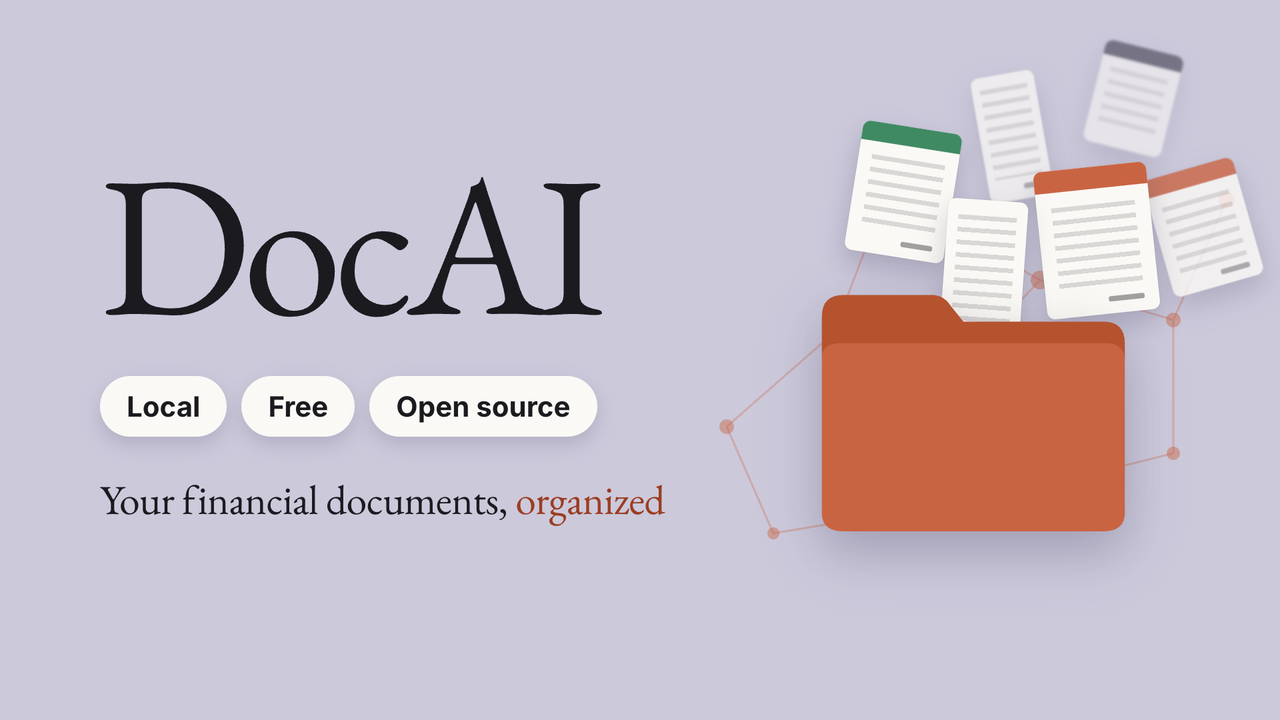
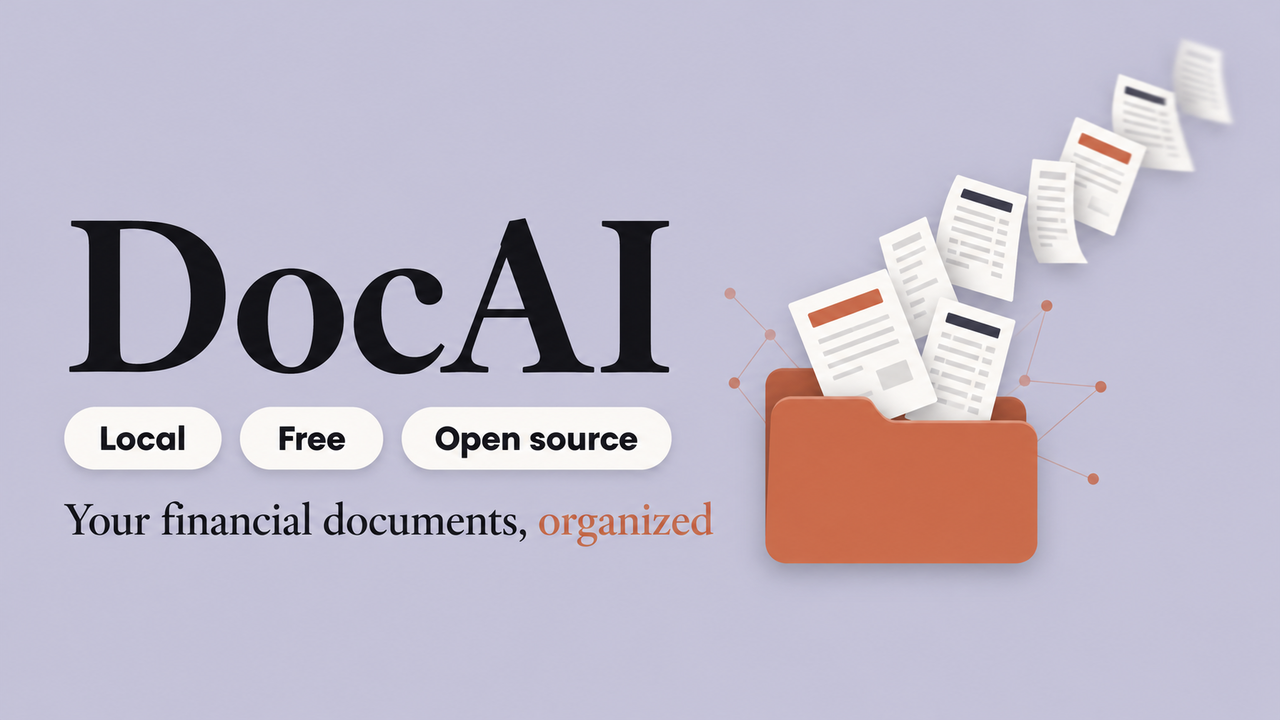
1

diff --git a/video/index.html b/video/index.html
@@ -58,7 +58,7 @@
     </style>
     <script>
       // Narration timing, in each scene's own time (seconds from the scene's start).
-      window.VO = {"total":266.688,"cover":2.4,"scenes":{"intro":{"id":"intro","start":2.4,"duration":23.065,"lead":0.6,"audio":"assets/voice/intro.mp3","voice":21.865,"sentences":[{"text":"This is DocAI.","start":0.6,"end":1.924},{"text":"Think of it as a free, local, open-source Google Drive, built for your financial documents.","start":2.274,"end":8.001},{"text":"Invoices, receipts, bank statements and transactions.","start":8.351,"end":12.055},{"text":"It runs on your own computer, and keeps your files private.","start":12.405,"end":15.258},{"text":"AI extracts the data from every document, organizes it in one database, and connects it into a complete picture of your money flow.","start":15.608,"end":22.115}]},"why":{"id":"why","start":25.465,"duration":32.453,"lead":0.6,"audio":"assets/voice/why.mp3","voice":31.253,"sentences":[{"text":"Why DocAI?","start":0.6,"end":1.991},{"text":"The data about your money is all there.","start":2.341,"end":4.267},{"text":"But every document comes in a different format, from a different source, at a different time of the month.","start":4.617,"end":9.493},{"text":"Organizing it in Excel is a full-time job, so most of us just give up.","start":9.843,"end":13.523},{"text":"Then one day you need answers, and you waste days digging through emails and accounts.","start":13.873,"end":18.17},{"text":"How did I miss a tax payment?","start":18.52,"end":20.086},{"text":"Did I get paid for this job?","start":20.436,"end":21.784},{"text":"What is this expense I don't remember making?","start":22.134,"end":24.192},{"text":"You need one place to drop all your documents, let AI do the first pass, and manage it with simple tools.","start":24.542,"end":29.859},{"text":"That's DocAI.","start":30.209,"end":31.503}]},"how":{"id":"how","start":57.918,"duration":26.956,"lead":0.6,"audio":"assets/voice/how.mp3","voice":25.756,"sentences":[{"text":"Here's how it works.","start":0.6,"end":1.623},{"text":"First, connect a folder.","start":1.973,"end":3.662},{"text":"Any folder works, even a Google Drive folder synced to your computer.","start":4.012,"end":7.974},{"text":"Second, the data is extracted automatically.","start":8.324,"end":11.134},{"text":"Every document is recognized, and its vendor, dates, totals and line items land in a structured schema.","start":11.484,"end":17.488},{"text":"Third, work with your data.","start":17.838,"end":19.752},{"text":"Browse and search in a Drive-like interface, and match payments to invoices with the built-in reconciliation tool.","start":20.102,"end":26.006}]},"use":{"id":"use","start":84.874,"duration":17.929,"lead":0.6,"audio":"assets/voice/use.mp3","voice":16.729,"sentences":[{"text":"Here's how I use it every day.","start":0.6,"end":2.004},{"text":"Whenever I get a receipt, I snap a photo and save it to Google Drive.","start":2.354,"end":5.882},{"text":"Once it syncs, DocAI picks it up and extracts the data.","start":6.232,"end":9.767},{"text":"Then I connect Claude Code, and use it to organize my documents, create reports, and link my income to my tax payments.","start":10.117,"end":16.979}]},"mcp":{"id":"mcp","start":102.803,"duration":19.242,"lead":0.6,"audio":"assets/voice/mcp.mp3","voice":18.042,"sentences":[{"text":"DocAI is also an MCP server.","start":0.6,"end":3.347},{"text":"So you can connect Claude, or any AI assistant, and simply ask.","start":3.697,"end":7.911},{"text":"Sort my documents.","start":8.261,"end":9.443},{"text":"Arrange them in folders.","start":9.793,"end":11.131},{"text":"How much did I spend on software in March?","start":11.481,"end":13.633},{"text":"Reconcile these payments with their invoices.","start":13.983,"end":16.4},{"text":"Or build me a mini app.","start":16.751,"end":18.292}]},"miniapps":{"id":"miniapps","start":122.045,"duration":25.476,"lead":0.6,"audio":"assets/voice/miniapps.mp3","voice":24.276,"sentences":[{"text":"Mini apps are custom tools built on top of your data.","start":0.6,"end":3.57},{"text":"A monthly expense report, a folder organizer, a bank reconciliation.","start":3.92,"end":8.198},{"text":"The AI builds the app once.","start":8.548,"end":10.661},{"text":"After that, it runs on its own, without calling an AI model.","start":11.011,"end":14.856},{"text":"That makes it faster, deterministic, cheaper, and private.","start":15.206,"end":18.453},{"text":"You can even build a mini app on a few sample documents, then run it on your real ones completely offline.","start":18.803,"end":24.526}]},"setup":{"id":"setup","start":147.521,"duration":42.62,"lead":0.6,"audio":"assets/voice/setup.mp3","voice":41.42,"sentences":[{"text":"Setting up DocAI takes a minute.","start":0.6,"end":2.547},{"text":"Install it with two commands, and open it in your browser.","start":2.897,"end":6.234},{"text":"First, choose the folder with your documents.","start":6.584,"end":9.098},{"text":"A Google Drive folder synced to your computer works too.","start":9.448,"end":12.236},{"text":"Then choose where the AI runs.","start":12.586,"end":14.313},{"text":"On your own computer, nothing leaves your machine, but it's slower and needs a strong computer.","start":14.663,"end":19.808},{"text":"With an AI provider you trust, it's fast and accurate, using your own key.","start":20.158,"end":24.616},{"text":"For a local model, DocAI downloads one and runs it for you, or uses Ollama if you already have it.","start":24.966,"end":30.677},{"text":"For a provider, paste your key, and DocAI checks it and loads its models.","start":31.027,"end":35.565},{"text":"A quick test makes sure it all works, and you're done.","start":35.915,"end":39.306},{"text":"You can switch any time in Settings.","start":39.656,"end":41.67}]},"firstdoc":{"id":"firstdoc","start":190.141,"duration":17.101,"lead":0.6,"audio":"assets/voice/firstdoc.mp3","voice":15.901,"sentences":[{"text":"Now add your first document.","start":0.6,"end":2.075},{"text":"Upload it, or just drop it in your folder.","start":2.425,"end":4.734},{"text":"It shows up right away, and in a few seconds the AI has read it.","start":5.084,"end":8.658},{"text":"Open it to see everything DocAI extracted, next to the original.","start":9.008,"end":12.852},{"text":"Every line item is there too, and you can correct anything.","start":13.202,"end":16.151}]},"examples":{"id":"examples","start":207.242,"duration":49.634,"lead":0.6,"audio":"assets/voice/examples.mp3","voice":48.434,"sentences":[{"text":"Here are three mini apps I use every day.","start":0.6,"end":3.667},{"text":"Monthly Expenses shows where my money went this month.","start":5.617,"end":8.19},{"text":"Every receipt and payment is grouped by category, and checked against the bank.","start":8.54,"end":12.301},{"text":"Click a category to see each expense, with the bank transaction it matched.","start":12.651,"end":16.758},{"text":"Folder Suggestions files new documents for me.","start":18.708,"end":21.273},{"text":"It looks at where similar documents already live, and suggests a folder for each one.","start":21.623,"end":25.858},{"text":"One click moves them all, and the files move on disk too.","start":26.208,"end":29.384},{"text":"Bank Reconciliation shows which transactions are explained by a document.","start":31.334,"end":35.374},{"text":"When it finds a likely match, it asks me to confirm.","start":35.724,"end":38.698},{"text":"Click Reconcile, and the transaction is linked to its document.","start":39.048,"end":42.523},{"text":"Each of these was built by asking Claude.","start":42.873,"end":44.954},{"text":"Describe the report you need, and Claude builds it on your data.","start":45.304,"end":48.684}]},"outro":{"id":"outro","start":256.876,"duration":9.812,"lead":0.6,"audio":"assets/voice/outro.mp3","voice":6.812,"sentences":[{"text":"DocAI.","start":0.6,"end":1.537},{"text":"Free, open source, and private.","start":1.887,"end":4.611},{"text":"Organize your finances the way you want.","start":4.961,"end":7.062}]}}};
+      window.VO = {"total":265.288,"cover":1,"scenes":{"intro":{"id":"intro","start":1,"duration":23.065,"lead":0.6,"audio":"assets/voice/intro.mp3","voice":21.865,"sentences":[{"text":"This is DocAI.","start":0.6,"end":1.924},{"text":"Think of it as a free, local, open-source Google Drive, built for your financial documents.","start":2.274,"end":8.001},{"text":"Invoices, receipts, bank statements and transactions.","start":8.351,"end":12.055},{"text":"It runs on your own computer, and keeps your files private.","start":12.405,"end":15.258},{"text":"AI extracts the data from every document, organizes it in one database, and connects it into a complete picture of your money flow.","start":15.608,"end":22.115}]},"why":{"id":"why","start":24.065,"duration":32.453,"lead":0.6,"audio":"assets/voice/why.mp3","voice":31.253,"sentences":[{"text":"Why DocAI?","start":0.6,"end":1.991},{"text":"The data about your money is all there.","start":2.341,"end":4.267},{"text":"But every document comes in a different format, from a different source, at a different time of the month.","start":4.617,"end":9.493},{"text":"Organizing it in Excel is a full-time job, so most of us just give up.","start":9.843,"end":13.523},{"text":"Then one day you need answers, and you waste days digging through emails and accounts.","start":13.873,"end":18.17},{"text":"How did I miss a tax payment?","start":18.52,"end":20.086},{"text":"Did I get paid for this job?","start":20.436,"end":21.784},{"text":"What is this expense I don't remember making?","start":22.134,"end":24.192},{"text":"You need one place to drop all your documents, let AI do the first pass, and manage it with simple tools.","start":24.542,"end":29.859},{"text":"That's DocAI.","start":30.209,"end":31.503}]},"how":{"id":"how","start":56.518,"duration":26.956,"lead":0.6,"audio":"assets/voice/how.mp3","voice":25.756,"sentences":[{"text":"Here's how it works.","start":0.6,"end":1.623},{"text":"First, connect a folder.","start":1.973,"end":3.662},{"text":"Any folder works, even a Google Drive folder synced to your computer.","start":4.012,"end":7.974},{"text":"Second, the data is extracted automatically.","start":8.324,"end":11.134},{"text":"Every document is recognized, and its vendor, dates, totals and line items land in a structured schema.","start":11.484,"end":17.488},{"text":"Third, work with your data.","start":17.838,"end":19.752},{"text":"Browse and search in a Drive-like interface, and match payments to invoices with the built-in reconciliation tool.","start":20.102,"end":26.006}]},"use":{"id":"use","start":83.474,"duration":17.929,"lead":0.6,"audio":"assets/voice/use.mp3","voice":16.729,"sentences":[{"text":"Here's how I use it every day.","start":0.6,"end":2.004},{"text":"Whenever I get a receipt, I snap a photo and save it to Google Drive.","start":2.354,"end":5.882},{"text":"Once it syncs, DocAI picks it up and extracts the data.","start":6.232,"end":9.767},{"text":"Then I connect Claude Code, and use it to organize my documents, create reports, and link my income to my tax payments.","start":10.117,"end":16.979}]},"mcp":{"id":"mcp","start":101.403,"duration":19.242,"lead":0.6,"audio":"assets/voice/mcp.mp3","voice":18.042,"sentences":[{"text":"DocAI is also an MCP server.","start":0.6,"end":3.347},{"text":"So you can connect Claude, or any AI assistant, and simply ask.","start":3.697,"end":7.911},{"text":"Sort my documents.","start":8.261,"end":9.443},{"text":"Arrange them in folders.","start":9.793,"end":11.131},{"text":"How much did I spend on software in March?","start":11.481,"end":13.633},{"text":"Reconcile these payments with their invoices.","start":13.983,"end":16.4},{"text":"Or build me a mini app.","start":16.751,"end":18.292}]},"miniapps":{"id":"miniapps","start":120.645,"duration":25.476,"lead":0.6,"audio":"assets/voice/miniapps.mp3","voice":24.276,"sentences":[{"text":"Mini apps are custom tools built on top of your data.","start":0.6,"end":3.57},{"text":"A monthly expense report, a folder organizer, a bank reconciliation.","start":3.92,"end":8.198},{"text":"The AI builds the app once.","start":8.548,"end":10.661},{"text":"After that, it runs on its own, without calling an AI model.","start":11.011,"end":14.856},{"text":"That makes it faster, deterministic, cheaper, and private.","start":15.206,"end":18.453},{"text":"You can even build a mini app on a few sample documents, then run it on your real ones completely offline.","start":18.803,"end":24.526}]},"setup":{"id":"setup","start":146.121,"duration":42.62,"lead":0.6,"audio":"assets/voice/setup.mp3","voice":41.42,"sentences":[{"text":"Setting up DocAI takes a minute.","start":0.6,"end":2.547},{"text":"Install it with two commands, and open it in your browser.","start":2.897,"end":6.234},{"text":"First, choose the folder with your documents.","start":6.584,"end":9.098},{"text":"A Google Drive folder synced to your computer works too.","start":9.448,"end":12.236},{"text":"Then choose where the AI runs.","start":12.586,"end":14.313},{"text":"On your own computer, nothing leaves your machine, but it's slower and needs a strong computer.","start":14.663,"end":19.808},{"text":"With an AI provider you trust, it's fast and accurate, using your own key.","start":20.158,"end":24.616},{"text":"For a local model, DocAI downloads one and runs it for you, or uses Ollama if you already have it.","start":24.966,"end":30.677},{"text":"For a provider, paste your key, and DocAI checks it and loads its models.","start":31.027,"end":35.565},{"text":"A quick test makes sure it all works, and you're done.","start":35.915,"end":39.306},{"text":"You can switch any time in Settings.","start":39.656,"end":41.67}]},"firstdoc":{"id":"firstdoc","start":188.741,"duration":17.101,"lead":0.6,"audio":"assets/voice/firstdoc.mp3","voice":15.901,"sentences":[{"text":"Now add your first document.","start":0.6,"end":2.075},{"text":"Upload it, or just drop it in your folder.","start":2.425,"end":4.734},{"text":"It shows up right away, and in a few seconds the AI has read it.","start":5.084,"end":8.658},{"text":"Open it to see everything DocAI extracted, next to the original.","start":9.008,"end":12.852},{"text":"Every line item is there too, and you can correct anything.","start":13.202,"end":16.151}]},"examples":{"id":"examples","start":205.842,"duration":49.634,"lead":0.6,"audio":"assets/voice/examples.mp3","voice":48.434,"sentences":[{"text":"Here are three mini apps I use every day.","start":0.6,"end":3.667},{"text":"Monthly Expenses shows where my money went this month.","start":5.617,"end":8.19},{"text":"Every receipt and payment is grouped by category, and checked against the bank.","start":8.54,"end":12.301},{"text":"Click a category to see each expense, with the bank transaction it matched.","start":12.651,"end":16.758},{"text":"Folder Suggestions files new documents for me.","start":18.708,"end":21.273},{"text":"It looks at where similar documents already live, and suggests a folder for each one.","start":21.623,"end":25.858},{"text":"One click moves them all, and the files move on disk too.","start":26.208,"end":29.384},{"text":"Bank Reconciliation shows which transactions are explained by a document.","start":31.334,"end":35.374},{"text":"When it finds a likely match, it asks me to confirm.","start":35.724,"end":38.698},{"text":"Click Reconcile, and the transaction is linked to its document.","start":39.048,"end":42.523},{"text":"Each of these was built by asking Claude.","start":42.873,"end":44.954},{"text":"Describe the report you need, and Claude builds it on your data.","start":45.304,"end":48.684}]},"outro":{"id":"outro","start":255.476,"duration":9.812,"lead":0.6,"audio":"assets/voice/outro.mp3","voice":6.812,"sentences":[{"text":"DocAI.","start":0.6,"end":1.537},{"text":"Free, open source, and private.","start":1.887,"end":4.611},{"text":"Organize your finances the way you want.","start":4.961,"end":7.062}]}}};
 
       // Helpers the scenes share. Everything here runs before the scenes build
       // their timelines, and is a pure function of the timing above.
@@ -171,54 +171,54 @@
     </script>
   </head>
   <body>
-    <div id="root" data-composition-id="main" data-start="0" data-duration="266.688"
+    <div id="root" data-composition-id="main" data-start="0" data-duration="265.288"
          data-width="1920" data-height="1080">
       <div id="world" data-composition-id="world" data-composition-src="compositions/world.html"
-           data-start="0" data-duration="266.688" data-track-index="1"
+           data-start="0" data-duration="265.288" data-track-index="1"
            data-width="1920" data-height="1080"></div>
       <div id="cover" data-composition-id="cover" data-composition-src="compositions/cover.html"
-           data-start="0" data-duration="2.4" data-track-index="2"
+           data-start="0" data-duration="1" data-track-index="2"
            data-width="1920" data-height="1080"></div>
       <div id="intro" data-composition-id="intro" data-composition-src="compositions/intro.html"
-           data-start="2.4" data-duration="23.065" data-track-index="2"
+           data-start="1" data-duration="23.065" data-track-index="2"
            data-width="1920" data-height="1080"></div>
       <div id="why" data-composition-id="why" data-composition-src="compositions/why.html"
-           data-start="25.465" data-duration="32.453" data-track-index="3"
+           data-start="24.065" data-duration="32.453" data-track-index="3"
            data-width="1920" data-height="1080"></div>
       <div id="how" data-composition-id="how" data-composition-src="compositions/how.html"
-           data-start="57.918" data-duration="26.956" data-track-index="4"
+           data-start="56.518" data-duration="26.956" data-track-index="4"
            data-width="1920" data-height="1080"></div>
       <div id="use" data-composition-id="use" data-composition-src="compositions/use.html"
-           data-start="84.874" data-duration="17.929" data-track-index="5"
+           data-start="83.474" data-duration="17.929" data-track-index="5"
            data-width="1920" data-height="1080"></div>
       <div id="mcp" data-composition-id="mcp" data-composition-src="compositions/mcp.html"
-           data-start="102.803" data-duration="19.242" data-track-index="6"
+           data-start="101.403" data-duration="19.242" data-track-index="6"
            data-width="1920" data-height="1080"></div>
       <div id="miniapps" data-composition-id="miniapps" data-composition-src="compositions/miniapps.html"
-           data-start="122.045" data-duration="25.476" data-track-index="7"
+           data-start="120.645" data-duration="25.476" data-track-index="7"
            data-width="1920" data-height="1080"></div>
       <div id="setup" data-composition-id="setup" data-composition-src="compositions/setup.html"
-           data-start="147.521" data-duration="42.62" data-track-index="8"
+           data-start="146.121" data-duration="42.62" data-track-index="8"
            data-width="1920" data-height="1080"></div>
       <div id="firstdoc" data-composition-id="firstdoc" data-composition-src="compositions/firstdoc.html"
-           data-start="190.141" data-duration="17.101" data-track-index="9"
+           data-start="188.741" data-duration="17.101" data-track-index="9"
            data-width="1920" data-height="1080"></div>
       <div id="examples" data-composition-id="examples" data-composition-src="compositions/examples.html"
-           data-start="207.242" data-duration="49.634" data-track-index="10"
+           data-start="205.842" data-duration="49.634" data-track-index="10"
            data-width="1920" data-height="1080"></div>
       <div id="outro" data-composition-id="outro" data-composition-src="compositions/outro.html"
-           data-start="256.876" data-duration="9.812" data-track-index="11"
+           data-start="255.476" data-duration="9.812" data-track-index="11"
            data-width="1920" data-height="1080"></div>
-      <audio id="vo-intro" src="assets/voice/intro.mp3" data-start="3.000" data-duration="21.865" data-volume="1" data-track-index="20"></audio>
-      <audio id="vo-why" src="assets/voice/why.mp3" data-start="26.065" data-duration="31.253" data-volume="1" data-track-index="21"></audio>
-      <audio id="vo-how" src="assets/voice/how.mp3" data-start="58.518" data-duration="25.756" data-volume="1" data-track-index="22"></audio>
-      <audio id="vo-use" src="assets/voice/use.mp3" data-start="85.474" data-duration="16.729" data-volume="1" data-track-index="23"></audio>
-      <audio id="vo-mcp" src="assets/voice/mcp.mp3" data-start="103.403" data-duration="18.042" data-volume="1" data-track-index="24"></audio>
-      <audio id="vo-miniapps" src="assets/voice/miniapps.mp3" data-start="122.645" data-duration="24.276" data-volume="1" data-track-index="25"></audio>
-      <audio id="vo-setup" src="assets/voice/setup.mp3" data-start="148.121" data-duration="41.42" data-volume="1" data-track-index="26"></audio>
-      <audio id="vo-firstdoc" src="assets/voice/firstdoc.mp3" data-start="190.741" data-duration="15.901" data-volume="1" data-track-index="27"></audio>
-      <audio id="vo-examples" src="assets/voice/examples.mp3" data-start="207.842" data-duration="48.434" data-volume="1" data-track-index="28"></audio>
-      <audio id="vo-outro" src="assets/voice/outro.mp3" data-start="257.476" data-duration="6.812" data-volume="1" data-track-index="29"></audio>
+      <audio id="vo-intro" src="assets/voice/intro.mp3" data-start="1.600" data-duration="21.865" data-volume="1" data-track-index="20"></audio>
+      <audio id="vo-why" src="assets/voice/why.mp3" data-start="24.665" data-duration="31.253" data-volume="1" data-track-index="21"></audio>
+      <audio id="vo-how" src="assets/voice/how.mp3" data-start="57.118" data-duration="25.756" data-volume="1" data-track-index="22"></audio>
+      <audio id="vo-use" src="assets/voice/use.mp3" data-start="84.074" data-duration="16.729" data-volume="1" data-track-index="23"></audio>
+      <audio id="vo-mcp" src="assets/voice/mcp.mp3" data-start="102.003" data-duration="18.042" data-volume="1" data-track-index="24"></audio>
+      <audio id="vo-miniapps" src="assets/voice/miniapps.mp3" data-start="121.245" data-duration="24.276" data-volume="1" data-track-index="25"></audio>
+      <audio id="vo-setup" src="assets/voice/setup.mp3" data-start="146.721" data-duration="41.42" data-volume="1" data-track-index="26"></audio>
+      <audio id="vo-firstdoc" src="assets/voice/firstdoc.mp3" data-start="189.341" data-duration="15.901" data-volume="1" data-track-index="27"></audio>
+      <audio id="vo-examples" src="assets/voice/examples.mp3" data-start="206.442" data-duration="48.434" data-volume="1" data-track-index="28"></audio>
+      <audio id="vo-outro" src="assets/voice/outro.mp3" data-start="256.076" data-duration="6.812" data-volume="1" data-track-index="29"></audio>
     </div>
     <script>
       window.__timelines = window.__timelines || {};

diff --git a/video/compositions/cover.html b/video/compositions/cover.html
@@ -1,7 +1,7 @@
 <template>
   <!--
-    The cover: the first frame of the video and the YouTube thumbnail
-    (scripts/thumbnail.mjs exports it at 1280 x 720). Visible from frame 0,
+    The cover: the first frame of the video (the YouTube thumbnail itself is
+    assets/images/thumbnail-chatgpt.png, see scripts/thumbnail.mjs). Visible from frame 0,
     held for the cover's length (COVER in scripts/build.mjs), then it blurs
     away into the intro. Text on the left, the picture on the right; the
     bottom-right corner stays empty for YouTube's time badge.
@@ -70,13 +70,13 @@
 
       // Frame 0 is the thumbnail: everything is already in place. While it
       // holds, only the documents drift on toward the folder.
-      tl.fromTo("#cv-docs", { x: 0, y: 0 }, { x: -30, y: 40, duration: end - 0.5, ease: "none" }, 0);
+      tl.fromTo("#cv-docs", { x: 0, y: 0 }, { x: -20, y: 26, duration: end - 0.28, ease: "none" }, 0);
       // Then it gives way to the intro
-      window.DOC.blurOut(tl, $("#cv-text"), end - 0.5, { blur: 14, duration: 0.35, y: -30 });
-      window.DOC.blurOut(tl, $("#cv-docs"), end - 0.45, { blur: 14, duration: 0.35 });
-      window.DOC.blurOut(tl, $("#cv-folder"), end - 0.45, { blur: 14, duration: 0.35, scale: 0.9 });
-      window.DOC.blurOut(tl, $("#cv-graph"), end - 0.45, { blur: 14, duration: 0.35 });
-      tl.to("#cover-root", { backgroundColor: "rgba(204, 201, 219, 0)", duration: 0.3 }, end - 0.35);
+      window.DOC.blurOut(tl, $("#cv-text"), end - 0.3, { blur: 14, duration: 0.24, y: -30 });
+      window.DOC.blurOut(tl, $("#cv-docs"), end - 0.28, { blur: 14, duration: 0.24 });
+      window.DOC.blurOut(tl, $("#cv-folder"), end - 0.28, { blur: 14, duration: 0.24, scale: 0.9 });
+      window.DOC.blurOut(tl, $("#cv-graph"), end - 0.28, { blur: 14, duration: 0.24 });
+      tl.to("#cover-root", { backgroundColor: "rgba(204, 201, 219, 0)", duration: 0.2 }, end - 0.22);
 
       window.__timelines = window.__timelines || {};
       window.__timelines[id] = tl;

diff --git a/video/compositions/world.html b/video/compositions/world.html
@@ -15,7 +15,7 @@
       #world-root { position: absolute; inset: 0; }
       #world-canvas { position: absolute; inset: 0; width: 1920px; height: 1080px; filter: blur(1.4px); }
     </style>
-    <canvas data-hf-id="hf-joyu" id="world-canvas" class="clip" data-start="0" data-duration="266.688" data-track-index="1"></canvas>
+    <canvas data-hf-id="hf-joyu" id="world-canvas" class="clip" data-start="0" data-duration="265.288" data-track-index="1"></canvas>
   </div>
   <script>
     (function () {

diff --git a/video/README.md b/video/README.md
@@ -8,7 +8,7 @@ A narrated walkthrough of the main README, made with [HyperFrames](https://hyper
 2. **Voice:** `python3 scripts/tts.py` sends each sentence on its own to the local Pocket TTS server (`POCKET_TTS_URL`, default `http://127.0.0.1:8123/tts`), the same way pocket-speak does. It writes one MP3 per scene and `assets/voice/timing.json` with every sentence's start and end. Clips are cached in `.cache/tts/`, so editing one sentence re-synthesizes only that one.
 3. **Screenshots:** `node scripts/capture.mjs` takes 2880×1800 screenshots of a running DocAI with headless Chrome. Pages are only read, never changed. `DOCAI_URL` is the instance with real data; `SAMPLE_URL` and `SAMPLE_DOC` point at an instance holding the sample invoice from `docs/samples/`; `WIZARD_URL` at a build with the AI setup wizard, whose dialogs are captured on their own (no keys may be set for the provider shown, or their last characters appear). The `ex-*` mini app captures need two temporary states: `ex-folders` needs documents in the top folder (`ex-folders-done` clicks Move all 100%, which files them back), and `ex-recon-suggest` needs an unlinked suggested match (`ex-recon-done` clicks Reconcile, which links it again).
 4. **Build:** `node scripts/build.mjs` writes `index.html` from the timing: one scene per narration section, the voice clips, and `window.VO`, which the scenes use to show each word as it's spoken.
-5. **Scenes** are in [compositions/](compositions), one file per section. The video opens on [cover.html](compositions/cover.html), a title card with no narration (its length is `COVER` in `scripts/build.mjs`); `npm run thumbnail` saves its first frame as the 1280×720 YouTube thumbnail, `thumbnail.png`. [world.html](compositions/world.html) is the three.js layer behind them: paper documents that scatter, gather into one place and become the money-flow graph, with the camera flying through them between scenes.
+5. **Scenes** are in [compositions/](compositions), one file per section. The video opens on [cover.html](compositions/cover.html), a title card with no narration (its length is `COVER` in `scripts/build.mjs`); `npm run thumbnail` saves the 1280×720 YouTube thumbnail, `thumbnail.png`, from `assets/images/thumbnail-chatgpt.png` (made with ChatGPT Image), or from the cover's first frame if that image is missing. [world.html](compositions/world.html) is the three.js layer behind them: paper documents that scatter, gather into one place and become the money-flow graph, with the camera flying through them between scenes.
 6. **Check and render:**
 
 ```bash
